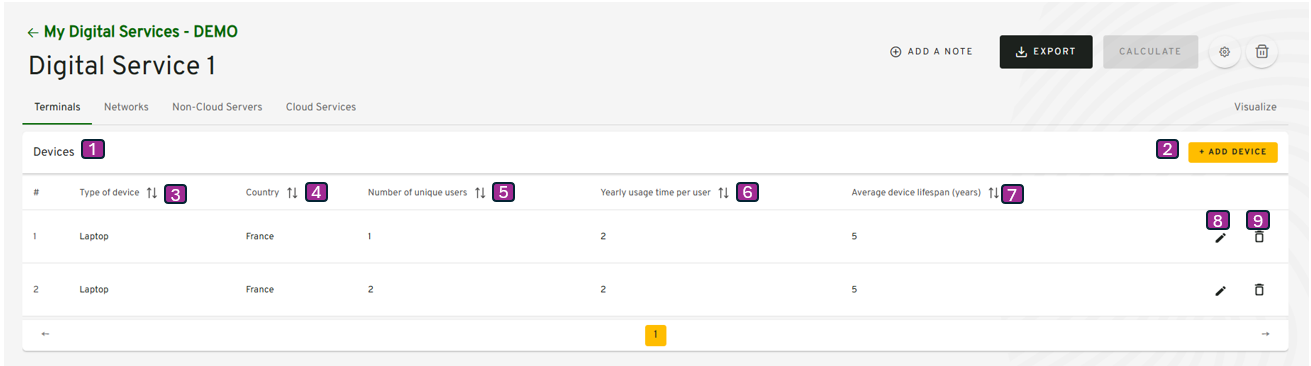
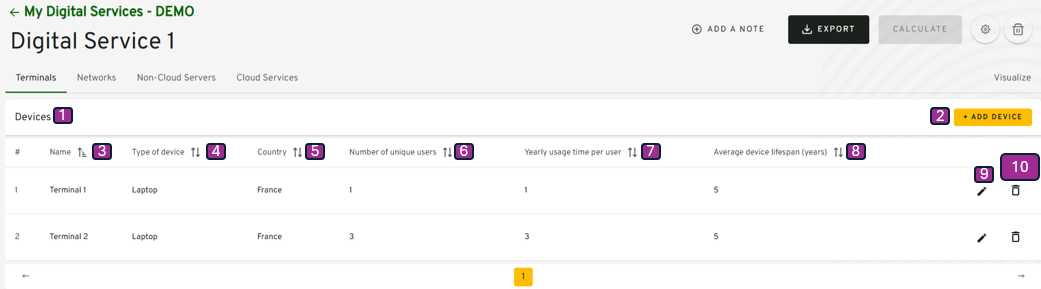
feat(1261): update terminal and network doc

diff --git a/services/documentation/content/2-functional-documentation/use_cases/uc_digital_services/uc3_add_visualize_equipments/uc3_add_visualize_terminals.md b/services/documentation/content/2-functional-documentation/use_cases/uc_digital_services/uc3_add_visualize_equipments/uc3_add_visualize_terminals.md
@@ -30,19 +30,20 @@ The connected user must have the write access for that module on the selected or
 
 {{% expand title="Show the behavior detail" expanded="false" center="true"%}}
 
-| Reference | Group      | Elements                        | Type   | Description                                                                                                                                                                               |
-| --------- | ---------- | ------------------------------- | ------ | ----------------------------------------------------------------------------------------------------------------------------------------------------------------------------------------- |
-|           | Tab Header |                                 | group  |                                                                                                                                                                                           |
-| 1         |            | Devices                         | title  |                                                                                                                                                                                           |
-| 2         |            | + Add Device                    | button | <li><u>_initialization rules_</u>: That button is displayed if the connected user have the write right.<br><br><li><u>_action rules_</u>: That button open the window Device details.<br> |
-|           | Tab        |                                 |        |                                                                                                                                                                                           |
-| 3         |            | Type of device                  | column |                                                                                                                                                                                           |
-| 4         |            | Country                         | column |                                                                                                                                                                                           |
-| 5         |            | Number of unique user           | column |                                                                                                                                                                                           |
-| 6         |            | Yearly usage time per user      | column |                                                                                                                                                                                           |
-| 7         |            | Average device lifespan (years) | column |                                                                                                                                                                                           |
-| 8         |            | Edit                            | button | <li><u>_action rules_</u>: That button open the window Device details.<br>                                                                                                                |
-| 9         |            | Delete                          | button | <li><u>_action rules_</u>: Delete the device from the current Digital Service.<br> Note : The user must click on Calculate to update the footprint estimation.                            |
+| Reference | Group      | Elements                       | Type   | Description                                                                                                                                                                               |
+|-----------| ---------- | ------------------------------ | ------ | ----------------------------------------------------------------------------------------------------------------------------------------------------------------------------------------- |
+|           | Tab Header |                                | group  |                                                                                                                                                                                           |
+| 1         |            | Devices                        | title  |                                                                                                                                                                                           |
+| 2         |            | + Add Device                   | button | <li><u>_initialization rules_</u>: That button is displayed if the connected user have the write right.<br><br><li><u>_action rules_</u>: That button open the window Device details.<br> |
+|           | Tab        |                                |        |                                                                                                                                                                                           |
+| 3         |            | Name                 | column |                                                                                                                                                                                           |
+| 4         |            | Type of device                 | column |                                                                                                                                                                                           |
+| 5         |            | Country                        | column |                                                                                                                                                                                           |
+| 6         |            | Number of unique user          | column |                                                                                                                                                                                           |
+| 7         |            | Yearly usage time per user     | column |                                                                                                                                                                                           |
+| 8         |            | Average device lifespan (years) | column |                                                                                                                                                                                           |
+| 9         |            | Edit                           | button | <li><u>_action rules_</u>: That button open the window Device details.<br>                                                                                                                |
+| 10        |            | Delete                         | button | <li><u>_action rules_</u>: Delete the device from the current Digital Service.<br> Note : The user must click on Calculate to update the footprint estimation.                            |
 
 {{% /expand %}}
 
@@ -52,16 +53,18 @@ The connected user must have the write access for that module on the selected or
 
 {{% expand title="Show the behavior detail" expanded="false" center="true"%}}
 
-| Reference | Group           | Elements                        | Type                 | Description                                                                                        |
-| --------- | --------------- | ------------------------------- | -------------------- | -------------------------------------------------------------------------------------------------- |
-|           | Title           |                                 |                      | <li><u>_initialization rules_</u>: Coming from "Add Device", the title is "New Device" else "xxx". |
-| 3         |                 | Type of device                  | dropdown             |                                                                                                    |
-| 4         |                 | Country                         | dropdown             |                                                                                                    |
-| 5         |                 | Number of unique user           | Entire number input  |                                                                                                    |
-| 6         |                 | Yearly usage time per user      | Decimal number input |                                                                                                    |
+| Reference | Group           | Elements                     | Type                 | Description                                                                                        |
+|-----------| --------------- |------------------------------|----------------------| -------------------------------------------------------------------------------------------------- |
+|           | Title           |                              |                      | <li><u>_initialization rules_</u>: Coming from "Add Device", the title is "New Device" else "xxx". |
+| 1         |                 | New Device or Edit Device    | title                |                                                                                                    |
+| 2         |                 | Name                         | label input          |                                                                                                    |
+| 3         |                 | Type of device               | dropdown             |                                                                                                    |
+| 4         |                 | Country                      | dropdown             |                                                                                                    |
+| 5         |                 | Number of unique user        | Entire number input  |                                                                                                    |
+| 6         |                 | Yearly usage time per user   | Decimal number input |                                                                                                    |
 | 7         |                 | Average device lifespan (years) | Decimal number input |                                                                                                    |
-| 8         | Cancel          |                                 | button               | <li><u>_action rules_</u>: That button close the window Device details.<br>                        |
-| 9         | Create / Update |                                 | button               |                                                                                                    |
+| 8         | Cancel          |                              | button               | <li><u>_action rules_</u>: That button close the window Device details.<br>                        |
+| 9         | Create / Update |                              | button               |                                                                                                    |
 
 {{% /expand %}}
 

diff --git a/services/documentation/content/2-functional-documentation/use_cases/uc_digital_services/uc3_add_visualize_equipments/uc3_add_visualize_network.md b/services/documentation/content/2-functional-documentation/use_cases/uc_digital_services/uc3_add_visualize_equipments/uc3_add_visualize_network.md
@@ -18,8 +18,8 @@ This usecase allows a project team to add network equipment into a digital servi
 
 **Navigation Path**
 
--   My Digital Services / My Digital Service / Terminals / Add Network
--   My Digital Services / My Digital Service / Terminals / Modify Network
+-   My Digital Services / My Digital Service / Networks / Add Network
+-   My Digital Services / My Digital Service / Networks / Modify Network
 
 **Access Conditions**
 The connected user must have the write access for that module on the selected organization.
@@ -31,15 +31,16 @@ The connected user must have the write access for that module on the selected or
 {{% expand title="Show the behavior detail" expanded="false" center="true"%}}
 
 | Reference | Group      | Elements                        | Type   | Description                                                                                                                                                                                |
-| --------- | ---------- | ------------------------------- | ------ | ------------------------------------------------------------------------------------------------------------------------------------------------------------------------------------------ |
+|-----------| ---------- |---------------------------------| ------ | ------------------------------------------------------------------------------------------------------------------------------------------------------------------------------------------ |
 |           | Tab Header |                                 | group  |                                                                                                                                                                                            |
 | 1         |            | Networks                        | title  |                                                                                                                                                                                            |
 | 2         |            | + Add Network                   | button | <li><u>_initialization rules_</u>: That button is displayed if the connected user have the write right.<br><br><li><u>_action rules_</u>: That button open the window Network details.<br> |
-|           | Tab        |                                 |        |                                                                                                                                                                                            |
-| 3         |            | Type                            | column |                                                                                                                                                                                            |
-| 4         |            | Yearly quantity of GB exchanged | column |                                                                                                                                                                                            |
-| 8         |            | Edit                            | button | <li><u>_action rules_</u>: That button open the window Network details.<br>                                                                                                                |
-| 9         |            | Delete                          | button | <li><u>_action rules_</u>: Delete the network from the current Digital Service.<br> Note : The user must click on Calculate to update the footprint estimation.                            |
+|           | Tab        |                                 |        |      <br/>                                                                                                                                                                                      |
+| 3         |            | Name                            | column |                                                                                                                                                                                           |
+| 4         |            | Type                            | column |                                                                                                                                                                                            |
+| 5         |            | Yearly quantity of GB exchanged | column |                                                                                                                                                                                            |
+| 6         |            | Edit                            | button | <li><u>_action rules_</u>: That button open the window Network details.<br>                                                                                                                |
+| 7         |            | Delete                          | button | <li><u>_action rules_</u>: Delete the network from the current Digital Service.<br> Note : The user must click on Calculate to update the footprint estimation.                            |
 
 {{% /expand %}}
 
@@ -50,12 +51,14 @@ The connected user must have the write access for that module on the selected or
 {{% expand title="Show the behavior detail" expanded="false" center="true"%}}
 
 | Reference | Group           | Elements                                             | Type                 | Description                                                                                          |
-| --------- | --------------- | ---------------------------------------------------- | -------------------- | ---------------------------------------------------------------------------------------------------- |
-| 1         | Title           |                                                      |                      | <li><u>_initialization rules_</u>: Coming from "Add Network", the title is "New Network" else "xxx". |
-| 2         |                 | Type                                                 | dropdown             |                                                                                                      |
-| 3         |                 | Total quantity of GB exchanged by year for all users | Decimal number input |                                                                                                      |
-| 4         | Cancel          |                                                      | button               | <li><u>_action rules_</u>: That button close the window Network details.<br>                         |
-| 5         | Create / Update |                                                      | button               |                                                                                                      |
+|-----------| --------------- |------------------------------------------------------| -------------------- | ---------------------------------------------------------------------------------------------------- |
+|           | Title           |                                                      |                      | <li><u>_initialization rules_</u>: Coming from "Add Network", the title is "New Network" else "xxx". |
+| 1         |                 | New Network or Edit Network                          | label input          |                                                                                                    |
+| 2         |                 | Name                                                 | label input          |                                                                                                    |
+| 3         |                 | Type                                                 | dropdown             |                                                                                                      |
+| 4         |                 | Total quantity of GB exchanged by year for all users | Decimal number input |                                                                                                      |
+| 5         | Cancel          |                                                      | button               | <li><u>_action rules_</u>: That button close the window Network details.<br>                         |
+| 6         | Create / Update |                                                      | button               |                                                                                                      |
 
 {{% /expand %}}
 
